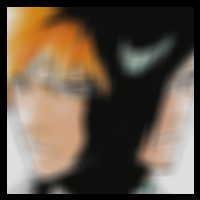
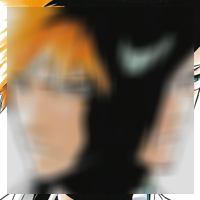
Mean Filter 2-pass

Changed region(s): [[0.0, 0.0, 0.33, 1.0], [0.66, 0.21, 1.0, 1.0], [0.24, 0.96, 0.39, 1.0]]

diff --git a/02/main.py b/02/main.py
@@ -24,14 +24,42 @@ def mean_filter(img_in, w_size):
                         sum += img_in[j, i]
                 
                 img_out[y, x] = sum/(w_size * w_size)
-            else:
-                img_out[y, x] = 0
     
     return img_out
 
 
-def mean_filter_divisible(img_in, w_size):
-    return
+def mean_filter_2pass(img_in, w_size):
+    height = img_in.shape[0]
+    width = img_in.shape[1]
+    img_out = img_in.copy()
+
+    # First pass (Horizontal)
+    for y in range(height):
+        for x in range(width):
+            # Verify if window don't exceed the image size
+            if x - math.floor(w_size/2) >= 0 and x + math.floor(w_size/2) <= height:
+                sum = np.zeros(3)
+                # Slide through the image applying a mean
+                for i in range(x - math.floor(w_size/2), x + math.floor(w_size/2)):
+                    sum += img_in[y, i]
+                
+                img_out[y, x] = sum/(w_size)
+
+    # Second pass (Vertical)
+    for y in range(height):
+        for x in range(width):
+            # Verify if window don't exceed the image size
+            if y - math.floor(w_size/2) >= 0 and y + math.floor(w_size/2) <= height:
+                sum = np.zeros(3)
+                # Slide through the image applying a mean
+                for j in range(y - math.floor(w_size/2), y + math.floor(w_size/2)):
+                    sum += img_out[j, x]
+                
+                img_out[y, x] = sum/(w_size)
+    
+
+
+    return img_out
 
 def mean_filter_integral(img_in, w_size):
     return
@@ -49,12 +77,21 @@ def main ():
 
     start_time = timeit.default_timer ()
     img_out = mean_filter(img, WINDOW_SIZE)
-    #img_out2 = cv2.blur(img, (21, 21))
-    print ('Elapsed time: %f' % (timeit.default_timer () - start_time))
+    print ('Elapsed time (Mean Filter 1): %f' % (timeit.default_timer () - start_time))
+    
+    start_time = timeit.default_timer ()
+    #img_out2 = mean_filter_2pass(img, WINDOW_SIZE)
+    print ('Elapsed time (Mean filter 2): %f' % (timeit.default_timer () - start_time))
+
+    img_out3 = cv2.blur(img, (15, 15))
+
     cv2.imshow ('01 - Mean filter', img_out)
-    #cv2.imshow ('02 - binarizada', img_out2)
+    #cv2.imshow ('02 - Mean filter - Two-pass', img_out2)
+    cv2.imshow ('03 - Mean filter - OpenCV', img_out3)
     cv2.imwrite ('img/01 - binarizada.png', img_out*255)
-    #mean_blur_2pass
+
+  
+    
     #mean_blur_integral
 
     # Mostra os objetos encontrados.
